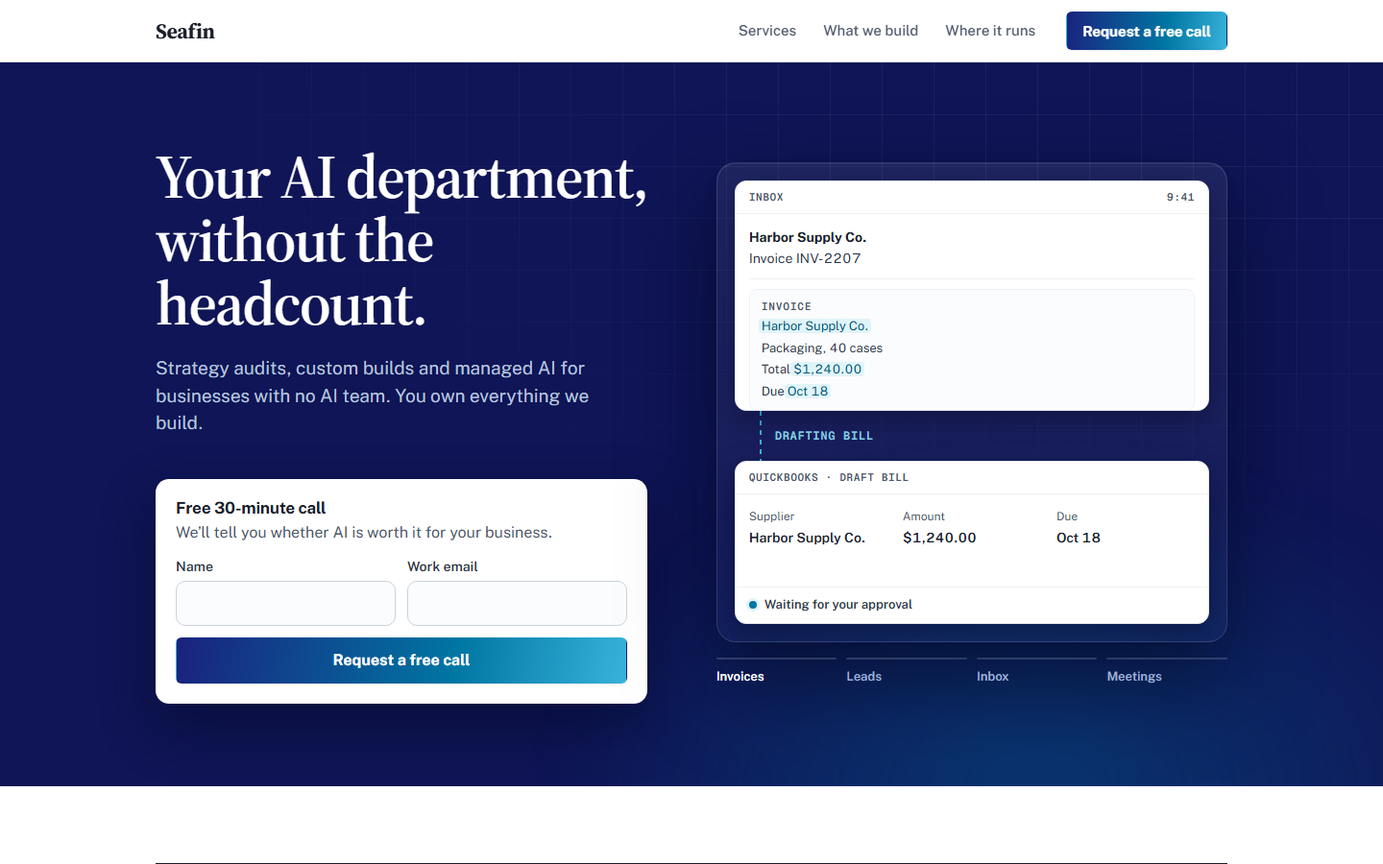
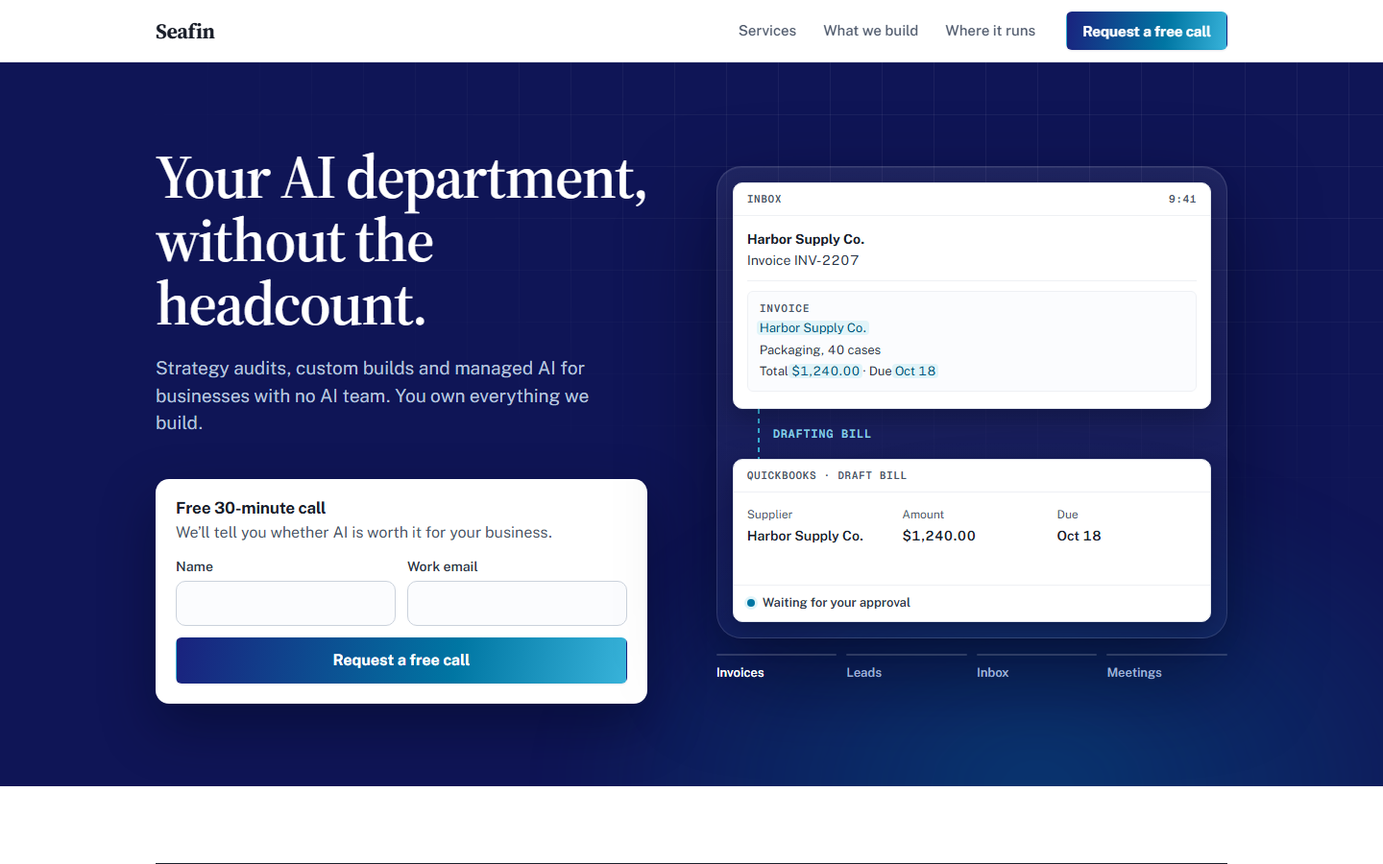
Demo: fit the invoice, radii back in the 6/10/14/26 family; design record

diff --git a/seafin-site/home.css b/seafin-site/home.css
@@ -155,20 +155,20 @@ h1, h2, h3 { margin: 0; color: var(--ink-900); }
 /* ---------- the build, played (demo.js) ---------- */
 .demo { margin: 0; }
 .demo-stage {
-  position: relative; display: grid; grid-template-rows: auto 52px minmax(0, 1fr); height: 500px;
-  padding: 18px; border-radius: 20px;
+  position: relative; display: grid; grid-template-rows: auto 52px minmax(0, 1fr); height: 492px;
+  padding: 16px; border-radius: 26px;
   background: linear-gradient(180deg, rgba(255, 255, 255, 0.07), rgba(255, 255, 255, 0.025));
   border: 1px solid rgba(255, 255, 255, 0.13);
   box-shadow: 0 40px 90px rgba(3, 6, 30, 0.55), inset 0 1px 0 rgba(255, 255, 255, 0.08);
 }
-.app { position: relative; overflow: hidden; background: var(--paper); border: 1px solid var(--line); border-radius: 12px; box-shadow: 0 10px 30px rgba(3, 6, 30, 0.35); color: var(--ink-900); }
+.app { position: relative; overflow: hidden; background: var(--paper); border: 1px solid var(--line); border-radius: var(--r-input); box-shadow: 0 10px 30px rgba(3, 6, 30, 0.35); color: var(--ink-900); }
 .app-dst { display: flex; flex-direction: column; }
 .app-dst .app-status { margin-top: auto; }
 .app-bar { display: flex; justify-content: space-between; gap: 12px; padding: 10px 14px; border-bottom: 1px solid var(--line-soft); font: 600 0.6875rem/1.2 var(--font-mono); letter-spacing: 0.06em; text-transform: uppercase; color: var(--ink-500); }
-.app-body { position: relative; height: 204px; padding: 14px; font-size: 0.875rem; line-height: 1.5; color: var(--ink-700); }
+.app-body { position: relative; height: 200px; padding: 14px; font-size: 0.875rem; line-height: 1.5; color: var(--ink-700); }
 .app-body .mail { display: grid; gap: 1px; padding-bottom: 10px; margin-bottom: 10px; border-bottom: 1px solid var(--line-soft); }
 .app-body .from { font-weight: 700; color: var(--ink-900); }
-.app-body .doc { display: grid; gap: 3px; padding: 10px 12px; border: 1px solid var(--line-soft); border-radius: 8px; background: var(--paper-2); font-size: 0.8125rem; }
+.app-body .doc { display: grid; gap: 3px; padding: 10px 12px; border: 1px solid var(--line-soft); border-radius: var(--r-control); background: var(--paper-2); font-size: 0.8125rem; }
 .app-body .doc-h { font: 600 0.6875rem/1.4 var(--font-mono); letter-spacing: 0.08em; text-transform: uppercase; color: var(--ink-500); }
 .app-body .row { display: grid; grid-template-columns: 5rem 1fr; gap: 10px; padding-block: 5px; border-bottom: 1px solid var(--line-soft); }
 .app-body .row:last-child { border-bottom: 0; }
@@ -296,8 +296,8 @@ h1, h2, h3 { margin: 0; color: var(--ink-900); }
 @media (max-width: 480px) {
   .hero h1 { font-size: 2rem; line-height: 1.1; }
   .book form { grid-template-columns: 1fr; }
-  .demo-stage { height: 512px; padding: 12px; }
-  .app-body { height: 216px; padding: 12px; font-size: 0.8125rem; }
+  .demo-stage { height: 492px; padding: 12px; }
+  .app-body { height: 200px; padding: 12px; font-size: 0.8125rem; }
   .fields { gap: 8px 10px; padding-inline: 12px; }
   .fields dd { font-size: 0.8125rem; }
   .demo-tabs { gap: 8px; }

diff --git a/seafin-site/demo.js b/seafin-site/demo.js
@@ -35,8 +35,8 @@
       src: ['Inbox', '9:41',
         '<div class="mail"><span class="from">Harbor Supply Co.</span><span class="subj">Invoice INV-2207</span></div>' +
         '<div class="doc"><span class="ln doc-h">Invoice</span><span class="ln"><mark>Harbor Supply Co.</mark></span>' +
-        '<span class="ln">Packaging, 40 cases</span><span class="ln">Total <mark>$1,240.00</mark></span>' +
-        '<span class="ln">Due <mark>Oct 18</mark></span></div>'],
+        '<span class="ln">Packaging, 40 cases</span>' +
+        '<span class="ln">Total <mark>$1,240.00</mark> &middot; Due <mark>Oct 18</mark></span></div>'],
       steps: ['Reading invoice', 'Pulling out details', 'Drafting bill'],
       dst: ['QuickBooks · Draft bill', ['Supplier', 'Amount', 'Due']],
       typed: '',

diff --git a/seafin-site/index.html b/seafin-site/index.html
@@ -65,8 +65,7 @@
                 <span class="ln doc-h">Invoice</span>
                 <span class="ln"><mark class="hit">Harbor Supply Co.</mark></span>
                 <span class="ln">Packaging, 40 cases</span>
-                <span class="ln">Total <mark class="hit">$1,240.00</mark></span>
-                <span class="ln">Due <mark class="hit">Oct 18</mark></span>
+                <span class="ln">Total <mark class="hit">$1,240.00</mark> &middot; Due <mark class="hit">Oct 18</mark></span>
               </div>
               <span class="scan"></span>
             </div>

diff --git a/DESIGN.md b/DESIGN.md
@@ -22,9 +22,9 @@ colors:
 typography:
   display:
     fontFamily: "Source Serif 4, Georgia, serif"
-    fontSize: "clamp(2.75rem, 5.2vw, 4.5rem)"
+    fontSize: "clamp(2.625rem, 4.6vw, 4rem)"
     fontWeight: 600
-    lineHeight: 1.02
+    lineHeight: 1.03
     letterSpacing: "-0.025em"
   headline:
     fontFamily: "Source Serif 4, Georgia, serif"
@@ -103,10 +103,21 @@ components:
     backgroundColor: "{colors.indigo-deep}"
     textColor: "#e9ecf6"
     padding: "clamp(48px, 6vw, 96px) 0 clamp(48px, 6vw, 88px)"
-  form-bar:
+  form-panel:
     backgroundColor: "{colors.paper}"
     rounded: "{rounded.panel}"
     padding: "18px 20px 20px"
+  demo-stage:
+    padding: "18px"
+    height: "500px"
+  demo-card:
+    backgroundColor: "{colors.paper}"
+    textColor: "{colors.ink-900}"
+  demo-chip:
+    backgroundColor: "{colors.teal}"
+    textColor: "#ffffff"
+    rounded: "{rounded.control}"
+    padding: "1px 8px"
   index-row:
     typography: "{typography.index}"
     padding: "{spacing.row-pad} 0"
@@ -137,16 +148,16 @@ components:
 
 Seafin does not have its own visual world. By the user's standing pin (PRODUCT.md, Brand Commitments), Seafin's site uses the Wardix design system: `tracelet` repo `design.md` on `origin/dev` ("Vigilant Infrastructure") for doctrine, and `tracelet-vendor/pages/css/tracelet-landing.css` for token values. This file records how that system landed on Seafin, and where Seafin departs from the Wardix marketing site. When this file is silent, the upstream `design.md` governs; when they disagree, this file records what Seafin shipped.
 
-The page should look like it comes from the same company as Wardix: it opens on the Wardix dark hero (Deep Indigo under a fading engineering grid and a soft teal glow, the same treatment `tracelet-landing.css` uses), then runs white with hairline rules, one Canvas band, one bordered panel, serif headings, sans everything else, and one gradient button. Restraint carries the premium feel. It reads as a consulting practice's page, not a person's or a product's: type, rules, one form and two small drawn diagrams do the work. Density is moderate: a compact first viewport and generous spacing below.
+The page should look like it comes from the same company as Wardix: it opens on the Wardix dark hero (Deep Indigo under a fading engineering grid and a soft teal glow, the same treatment `tracelet-landing.css` uses), then runs white with hairline rules, one Canvas band, one bordered panel, serif headings, sans everything else, and one gradient button. Restraint carries the premium feel everywhere except one place: the hero's demo, "the build, played", where the page shows what Seafin does by playing it. It reads as a consulting practice's page, not a person's or a product's. Density is moderate: a compact first viewport and generous spacing below.
 
-Seafin departs from the Wardix marketing site in four places, each on purpose. There are no mono labels above headings, because Impeccable's craft floor bans them. There is no photography or raster imagery: no scenic hero (it would make Seafin read as a copy of the Wardix site), no founder portrait, no product screenshot. Drawn teal line diagrams are the only pictures. The brand gradient is narrowed to the single primary action. And motion is limited to one moving thing.
+Seafin departs from the Wardix marketing site in four places, each on purpose. There are no mono labels above headings, because Impeccable's craft floor bans them. There is no photography or raster imagery: no scenic hero (it would make Seafin read as a copy of the Wardix site), no founder portrait, no product screenshot. The pictures are built from markup: the hero demo's mock app cards and the drawn teal route diagrams. The brand gradient is narrowed to the single primary action. And motion has one focal point, the demo; everything else that moves is quiet.
 
 **Key Characteristics:**
 - A Deep Indigo opening with the upstream engineering grid, then a white page with one Canvas band and a Bastion close; dark mode from the same token pairs.
-- Source Serif 4 for the page's headings and the service names, Public Sans for everything readable, Geist Mono only for short functional tags.
+- Source Serif 4 for the page's headings and the service names, Public Sans for everything readable, Geist Mono only for short functional tags and mock-software chrome.
 - One radius family: 6 / 10 / 14.
 - One action per page, one label for it, one gradient on it.
-- No photography; drawn teal line diagrams only; no invented proof.
+- One focal motion (the hero demo), quiet supporting motion elsewhere; no photography; no invented proof.
 
 ## Colors
 
@@ -157,31 +168,31 @@ Neutral cool surfaces with one control color (indigo), one accent (teal), and tw
 - **Deep Indigo** (`indigo-deep`): the hero field (#070a18 in dark mode, set on the hero itself) and the tint source for every light-mode shadow. Indigo Tint (#e8eaf5) is still declared from the Wardix set but unused here.
 
 ### Secondary
-- **Signal Teal** (`teal`): links, focus outlines, input focus borders, caret, duration tags, flow arrows, diagram icons, the dashed boundary and its label, and the sent-state border on the form bar. In dark mode it becomes Soft Teal (#38b3da) so it stays legible on navy; upstream Wardix does not make this swap.
-- **Deep Teal** (`teal-deep`): link hover. In dark mode it lightens to #8fd6ee, so hover always moves away from the background.
-- **Soft Teal** (`teal-soft`): ends the brand gradient; the diagram wires; focus outline color in the hero and the closing band.
-- **Teal Tint** (`teal-tint`): the 3px focus halo around inputs and the sent-state halo around the form bar. Dark pair #0c2c3a.
+- **Signal Teal** (`teal`): links, focus outlines, input focus borders, caret, duration tags, flow arrows, diagram icons, the dashed boundary and its label, the sent-state border on the form panel, and in the demo the flying chips, the working/done status dot and the typing caret. In dark mode it becomes Soft Teal (#38b3da) so it stays legible on navy; upstream Wardix does not make this swap.
+- **Deep Teal** (`teal-deep`): link hover and the text of a demo mark once the scan has lit it. In dark mode it lightens to #8fd6ee, so hover always moves away from the background.
+- **Soft Teal** (`teal-soft`): ends the brand gradient; every wire (route diagrams, demo relay); the demo scan line and tab progress fill; focus outline color on the dark fields.
+- **Teal Tint** (`teal-tint`): the 3px focus halo around inputs, the sent-state halo around the form panel, and the highlight behind a lit demo mark or a freshly filled demo field. Dark pair #0c2c3a.
 
 ### Tertiary
 - **Bastion Navy** (`bastion`): the closing band only, the same in both modes.
 
 ### Neutral
-- **Ink 900 / 700 / 500** (`ink-900`, `ink-700`, `ink-500`): headings, primary text, flow results and the practice-index top rule / field labels, diagram node labels, the "which one fits" line and the footer maker name / descriptions, flow inputs, nav and footer links. Dark pairs #e9ecf6 / #cdd3e6 / #9aa3c0.
-- **Paper** (`paper`): the page background, the form bar, the routes panel, nav (at 94%). Dark pair #121732.
-- **Paper 2** (`paper-2`): input fills and diagram wells, one step off Paper. Dark pair #0f1430.
+- **Ink 900 / 700 / 500** (`ink-900`, `ink-700`, `ink-500`): headings, primary text, flow results and the practice-index top rule / field labels, diagram node labels, demo card body text, the "which one fits" line and the footer maker name / descriptions, flow inputs, demo field keys and app-bar text, nav and footer links. Dark pairs #e9ecf6 / #cdd3e6 / #9aa3c0.
+- **Paper** (`paper`): the page background, the form panel, the demo's app cards, the routes panel, nav (at 94%). Dark pair #121732.
+- **Paper 2** (`paper-2`): input fills, diagram wells and the document inset in a demo card. Dark pair #0f1430.
 - **Canvas** (`bg`): the "Where it runs" band only. Dark pair #0b0e1a.
-- **Line** (`line`): panel borders, practice-index and flow row rules, section dividers, nav bottom border. Dark #262c44.
-- **Line Soft** (`line-soft`): dividers inside a panel and diagram well borders. Dark #1e2438.
-- **Line Strong** (`line-strong`): input borders. Seafin's addition, not in the upstream token set. Dark #3a4466.
+- **Line** (`line`): panel and card borders, practice-index and flow row rules, section dividers, nav bottom border. Dark #262c44.
+- **Line Soft** (`line-soft`): dividers inside a panel or card, diagram well borders. Dark #1e2438.
+- **Line Strong** (`line-strong`): input borders (hover mixes in 45% Ink 500); the idle demo status dot. Seafin's addition, not in the upstream token set. Dark #3a4466.
 - **Danger** (`danger`): form error text only. Dark #ff8a80. Seafin's name for upstream's critical red.
-- **Hero-local text:** white for the H1 and #b9c4de for the lede, set on the hero so it reads the same in both modes.
+- **Hero-local colors:** white for the H1, #b9c4de for the lede, #9fb0d4 for idle demo tabs (white when active or hovered), #8fd6ee for the demo's step label; the glass stage is white at 7% to 2.5% with a 13% white border. All set on the hero so it reads the same in both modes.
 
 ### Named Rules
-**The One Gradient Rule.** The indigo-to-teal brand gradient appears only on "Request a free call" buttons (nav, form submit, closing band) and on the favicon tile. Not on text, cards, section backgrounds, or a second button. The hero's grid lines and teal glow are the upstream hero treatment, not the brand gradient, and appear nowhere else.
+**The One Gradient Rule.** The indigo-to-teal brand gradient appears only on "Request a free call" buttons (nav, form submit, closing band) and on the favicon tile. Not on text, cards, section backgrounds, or a second button. The hero's grid, teal glow, the demo's glass sheen and its scan line are translucent tints confined to the hero, not the brand gradient.
 
 **The Two Dark Fields Rule.** Deep Indigo opens the page (the hero); Bastion Navy closes it (the closing band). Neither appears anywhere else, and they never swap.
 
-**The Status-Means-State Rule.** Green, gold and red mean real system state. Seafin uses only red, and only for a failed form send.
+**The Status-Means-State Rule.** Green, gold and red mean real system state. Seafin uses only red, and only for a failed form send. The demo's status dot is teal, never green.
 
 ## Typography
 
@@ -194,26 +205,27 @@ All three are self-hosted WOFF2 files in `seafin-site/fonts`, using `font-displa
 **Character:** an editorial serif for the page's statements and the names of what Seafin sells, over a plain, sturdy civic sans that does all the reading. Tabular numerals are on across the whole body.
 
 ### Hierarchy
-- **Display** (600, clamp(2.75rem, 5.2vw, 4.5rem), 1.02, -0.025em, white): the hero H1 only. Balanced wrap. Drops to 2rem / 1.1 at ≤480px.
+- **Display** (600, clamp(2.625rem, 4.6vw, 4rem), 1.03, -0.025em, white): the hero H1 only. Balanced wrap. Drops to 2rem / 1.1 at ≤480px.
 - **Headline** (600, clamp(1.875rem, 3vw, 2.5rem), 1.12, -0.015em): section H2s and the closing-band H2.
 - **Index** (600, clamp(1.625rem, 2.4vw, 2.125rem), 1.15, -0.015em): service names in the practice index.
-- **Title** (Public Sans 700, 1.1875rem, 1.3): route H3s in the routes panel. The form-bar heading is a smaller sans title (700, 1.0625rem, 1.3, -0.01em).
-- **Lede** (400, 1.1875rem, 1.5, #b9c4de, max 40ch): the hero sentence.
+- **Title** (Public Sans 700, 1.1875rem, 1.3): route H3s in the routes panel. The form-panel heading is a smaller sans title (700, 1.0625rem, 1.3, -0.01em).
+- **Lede** (400, 1.1875rem, 1.5, #b9c4de, max 40ch): the hero sentence, 20px under the H1.
 - **Body Large** (400, 1.125rem): flow rows; the result side is ink-900 at 600, the input side ink-500.
 - **Body** (400, 1.0625rem, 1.6): running text. Descriptions cap at 52 to 60ch.
-- **Label** (Geist Mono 600, 0.75rem, 0.06em, uppercase, teal): duration tags in the practice index. The diagram boundary label is the same face at 0.6875rem.
+- **Label** (Geist Mono 600, 0.75rem, 0.06em, uppercase, teal): duration tags in the practice index; the demo's step label. The diagram boundary label and the demo's app-bar and document headers use the same face at 0.6875rem.
 - **Field label** (Public Sans 600, 0.875rem, 1.3, ink-700): form labels and diagram node labels.
+- **Demo scale:** inside the demo cards text runs smaller to read as software: 0.875rem body, 0.8125rem documents, chips and tabs, 0.75rem field keys (all one step smaller at ≤480px).
 
 ### Named Rules
-**The Serif-Is-For-The-Page Rule.** Serif is for page-level headings (the H1, section H2s, the closing H2) and for the service names in the practice index, which act as the headings of what Seafin sells. Panel titles, including the form-bar heading and the route H3s, are Public Sans bold.
+**The Serif-Is-For-The-Page Rule.** Serif is for page-level headings (the H1, section H2s, the closing H2) and for the service names in the practice index, which act as the headings of what Seafin sells. Panel titles, including the form-panel heading and the route H3s, are Public Sans bold. Nothing inside the demo is serif.
 
-**The Mono-Tags-Never-Lead Rule.** Geist Mono uppercase labels are short and functional: duration tags set beside their title (desktop) or beneath it (≤960px), and the one label that names a drawn boundary in a diagram. A mono label never sits above a heading and never leads a row.
+**The Mono-Tags-Never-Lead Rule.** On the page, Geist Mono uppercase labels are short and functional: duration tags set beside their title (desktop) or beneath it (≤960px), the step label on the demo's wire, and the one label that names a drawn boundary in a diagram. A mono label never sits above a page heading and never leads a page row. Inside the demo's mock app cards, mono is the mock software's own chrome (app name, time, document header, speaker name) and depicts an interface; it is not a page device to reuse elsewhere.
 
 ## Layout
 
 Single column centered at 1180px max width with a gutter of clamp(16px, 4vw, 32px). Sections pad clamp(56px, 7vw, 96px) top and bottom and are separated by a 1px Line rule.
 
-The first viewport is the dark hero (clamp(48px, 6vw, 96px) top, clamp(48px, 6vw, 88px) bottom): the serif H1 with the lede beside it, 1.75fr / 1fr, aligned to the bottom, and under them, clamp(28px, 3.5vw, 44px) down, the Paper form bar. The practice index follows on white after clamp(48px, 6vw, 80px), opened by its 1px ink-900 rule (its section heading is visually hidden). The practice index pattern was borrowed from Accenture's and Capgemini's practice pages (chosen 2026-10-04).
+The first viewport is the dark hero (clamp(48px, 6vw, 96px) top, clamp(48px, 6vw, 88px) bottom), two columns at 1fr / 1.04fr, vertically centered, 40px by clamp(32px, 5vw, 72px) apart. Left: the serif H1, the lede, and clamp(28px, 3.5vw, 44px) below them the form panel. Right: the demo. The practice index follows on white after clamp(48px, 6vw, 80px), opened by its 1px ink-900 rule (its section heading is visually hidden). The practice index pattern was borrowed from Accenture's and Capgemini's practice pages (chosen 2026-10-04).
 
 The sections change shape instead of repeating one template:
 1. The practice index: open ruled rows, three columns (16rem / 13.5rem / 1fr) of name, duration tag and description (Services).
@@ -222,36 +234,39 @@ The sections change shape instead of repeating one template:
 4. A full-bleed Bastion band with the heading and actions on one line (closing).
 5. A one-line footer: maker name left, mail and legal links right.
 
-Breakpoints: at ≤960px the hero grid collapses to one column and index rows stack (name, tag, description). At ≤760px nav links hide, the form fields and submit stack, flow rows stack with the arrow turned to point down, and the routes panel stacks. At ≤480px the hero type steps down and closing-band buttons go full width.
+Breakpoints: at ≤960px the hero collapses to one column with the demo below the form (capped at 560px wide), and index rows stack (name, tag, description). At ≤760px nav links hide, the two form fields stack, flow rows stack with the arrow turned to point down, and the routes panel stacks. At ≤480px the hero type steps down, the demo's padding and type tighten, and closing-band buttons go full width.
 
 ## Elevation & Depth
 
-A hybrid that leans flat: hairline borders, rules and two dark fields do the separating. On light ground, one quiet indigo-tinted shadow gives the routes panel and buttons a little lift. On the dark hero, the Paper form bar floats on one deep shadow, which is what makes it read as the action. In dark mode, Raised and Overlay become neutral black and stronger, while Resting keeps its light indigo tint.
+A hybrid that leans flat: hairline borders, rules and two dark fields do the separating. On light ground, one quiet indigo-tinted shadow gives the routes panel and buttons a little lift. On the dark hero, depth is deliberate and deep: the form panel and the demo float on dark navy shadows, and the demo's cards sit inside a glass stage. In dark mode, Raised and Overlay become neutral black and stronger, while Resting keeps its light indigo tint.
 
 ### Shadow Vocabulary
 - **Resting** (`box-shadow: 0 1px 2px rgba(15, 21, 86, 0.06), 0 1px 3px rgba(15, 21, 86, 0.04)`): the routes panel and primary buttons at rest.
-- **Raised** (`box-shadow: 0 4px 12px rgba(15, 21, 86, 0.08), 0 2px 4px rgba(15, 21, 86, 0.04)`): button hover and the form bar's sent state only. Dark: `0 4px 14px rgba(0, 0, 0, 0.4)`.
-- **Hero Lift** (`box-shadow: 0 24px 56px rgba(3, 6, 30, 0.45)`): the form bar on the dark hero, and nothing else.
+- **Raised** (`box-shadow: 0 4px 12px rgba(15, 21, 86, 0.08), 0 2px 4px rgba(15, 21, 86, 0.04)`): button hover and the form panel's sent state only. Dark: `0 4px 14px rgba(0, 0, 0, 0.4)`.
+- **Hero Lift** (`box-shadow: 0 24px 56px rgba(3, 6, 30, 0.45)`): the form panel on the dark hero.
+- **Stage** (`box-shadow: 0 40px 90px rgba(3, 6, 30, 0.55), inset 0 1px 0 rgba(255, 255, 255, 0.08)`): the demo's glass stage.
+- **Card on Stage** (`box-shadow: 0 10px 30px rgba(3, 6, 30, 0.35)`): the demo's app cards.
+- **Chip Glow** (`box-shadow: 0 8px 20px rgba(0, 118, 163, 0.4)`): a demo chip in flight.
 - **Overlay** (`box-shadow: 0 14px 32px rgba(15, 21, 86, 0.1), 0 4px 12px rgba(15, 21, 86, 0.05)`): defined but unused on this page. Kept for menus and dialogs.
 
 ### Named Rules
-**The Quiet Elevation Rule.** On light ground nothing at rest sits above Resting; Raised appears only in response to state (hover, a sent form) and Overlay is for overlays. The one exception is the form bar's Hero Lift, which exists only because it sits on the dark hero.
+**The Quiet Elevation Rule.** On light ground nothing at rest sits above Resting; Raised appears only in response to state (hover, a sent form) and Overlay is for overlays. Deep shadows (Hero Lift, Stage, Card on Stage, Chip Glow) exist only on the dark hero, where a light shadow would vanish.
 
 ## Shapes
 
-One radius family from upstream, narrowed to what the page uses: 6px for buttons, 10px for inputs and diagram wells, 14px for the form bar and the routes panel. Upstream's 26px media radius has no use here because there is no imagery. The practice index and flow rows have no corners at all: they are rules, not containers. No pills, no icon tiles. Borders and rules are 1px; lines inside a panel use Line Soft, outer lines use Line. Two marked exceptions: the ink-900 rule that opens the practice index, and the 1.5px dashed teal boundary around the self-hosted diagram. Icons and arrows are open line strokes (1.5 to 1.75, round caps and joins) in teal, never filled.
+One radius family from upstream, narrowed to what the page uses: 6px for buttons and demo chips, 10px for inputs and diagram wells, 14px for the form panel and the routes panel. The practice index and flow rows have no corners at all: they are rules, not containers. No pills, no icon tiles; the only round shape is the 8px demo status dot. Borders and rules are 1px; lines inside a panel use Line Soft, outer lines use Line. Two marked exceptions: the ink-900 rule that opens the practice index, and the 1.5px dashed teal boundary around the self-hosted diagram. Icons and arrows are open line strokes (1.5 to 1.75, round caps and joins) in teal, never filled. The demo stage (20px), its app cards (12px) and the document inset (8px) currently sit outside the family; they are recorded here as shipped, not as steps to reuse.
 
 ## Components
 
 ### Buttons
-- **Shape:** gently rounded (6px), min height 44px (40px with 16px padding in the nav, 46px at 1rem in the form bar), padding 0 20px, Public Sans 700 at 0.9375rem.
+- **Shape:** gently rounded (6px), min height 44px (40px with 16px padding in the nav, 48px full-width at 1rem in the form panel), padding 0 20px, Public Sans 700 at 0.9375rem.
 - **Primary:** brand gradient (`linear-gradient(100deg, indigo 0%, teal 62%, teal-soft 100%)`; dark: #2b35a8 / #0a85b6 / #38b3da; the frontmatter records indigo as its solid fallback), white text, Resting shadow. One label everywhere: "Request a free call".
 - **Hover / Focus:** hover brightens (`filter: brightness(1.08)`) and lifts to Raised; press shifts down 1px and dims slightly (0.96). Transitions are 160ms ease-out. Focus is the global 2px teal outline, offset 3px (Soft Teal on the dark fields). While sending, the button is desaturated and the label reads "Sending…".
 - **Secondary:** none.
 
 ### Inputs / Fields
 - **Style:** Paper 2 fill, 1px Line Strong border, 10px radius, padding 11px 13px, min height 46px. Labels sit above the field, 6px apart.
-- **Focus:** the border turns teal and a 3px Teal Tint halo appears; no outline. 140ms ease-out.
+- **Hover / Focus:** hover darkens the border (Line Strong mixed 55/45 with Ink 500). Focus turns the border teal with a 3px Teal Tint halo; no outline. 140ms ease-out.
 - **Error:** one line of Danger-colored status text across the full width of the form, with a mailto fallback.
 
 ### Cards / Containers
@@ -265,20 +280,30 @@ One radius family from upstream, narrowed to what the page uses: 6px for buttons
 - Sticky, 64px tall, Paper at 94% with a 10px backdrop blur and a bottom Line border, sitting over the dark hero. Serif wordmark "Seafin" (700, 1.375rem, -0.02em). Three links (Services, What we build, Where it runs) in Public Sans 500 0.9375rem ink-500, turning ink-900 on hover. The primary button sits at the right.
 - On this one-page build, links hide at ≤760px with no menu replacement. The primary button stays in the header.
 
-### Hero (signature)
+### Hero
 The Wardix opening, adopted from upstream: a Deep Indigo field (#070a18 in dark mode) under an engineering grid of 1px white lines at 5.5% opacity on a 54px square, faded out by a radial mask from the top right, with a blurred teal glow (Signal Teal at 35%) rising from the bottom right. The grid and glow sit behind the content and carry no meaning; they appear only here.
 
-### Form Bar (signature)
-The one action, in the first viewport under the headline, as a single Paper bar the full width of the column: Paper fill, transparent border, 14px radius, padded 18px 20px 20px, Hero Lift shadow. The sans heading and its one-line ink-500 sub-line (1rem) share a baseline row. Below, 14px down, name, work email and the primary button sit in one row (1fr / 1fr / auto, 12px gap, aligned to the field bottoms), stacking at ≤760px; an `aria-live` status line spans the row beneath. On a successful send, the fields disable, the button hides, the border warms to teal with a 3px Teal Tint halo plus Raised (400ms ease-out), and the confirmation fades up 4px (420ms, cubic-bezier(0.16, 1, 0.3, 1)). Every "Request a free call" link scrolls to the bar and focuses the first field.
+### Form Panel
+The one action, in the hero's left column under the lede: Paper fill, transparent border, 14px radius, padded 18px 20px 20px, Hero Lift shadow. The sans heading and its one-line ink-500 sub-line (1rem) share a baseline row and wrap when narrow. Below, 14px down, name and work email sit side by side (12px gap, stacking at ≤760px) over a full-width 48px primary button; an `aria-live` status line spans beneath. On a successful send, the fields disable, the button hides, the border warms to teal with a 3px Teal Tint halo plus Raised (400ms ease-out), and the confirmation fades up 4px (420ms, cubic-bezier(0.16, 1, 0.3, 1)). Every "Request a free call" link scrolls to the panel and focuses the first field.
+
+### The Build, Played (signature)
+The hero's right column: a looping demo of four example builds (invoices, leads, inbox, meetings), each showing a message turning into finished work in a real tool.
+- **Stage:** a glass panel 500px tall (512px at ≤480px), 18px padding, a top-to-bottom white sheen (7% to 2.5%), a 13% white border and the Stage shadow. Three rows: the source card, a 52px relay, the destination card.
+- **App cards:** Paper, 1px Line border, Card on Stage shadow. A Line Soft app bar carries the mock app's name and meta in 0.6875rem mono ink-500. The source body is a fixed 204px; the destination holds a three-column field list (key in 0.75rem ink-500, value in 600 ink-900, empty values drawn as shimmering Line bars), an optional typed reply, and a status row with an 8px dot pinned to the bottom.
+- **Relay:** a vertical 2px dashed Soft Teal wire drifting downward (900ms linear) beside a mono step label in #8fd6ee that changes per step with a 280ms fade-up.
+- **Tabs:** four progress tabs under the stage, each a 2px track (white 16%) that fills with Soft Teal across its scene's duration. Clicking a tab jumps to that scene. Hidden without JS.
+- **Rhythm (one for every scene):** cards enter rising 14px (520ms, cubic-bezier(0.16, 1, 0.3, 1), destination 140ms later); a Soft Teal scan line sweeps the source (1100ms) and lights each mark Teal Tint / Deep Teal as it passes; Signal Teal chips fly from each mark to its destination field (820ms, staggered 150ms) and the field flashes Teal Tint as it fills (700ms); an optional reply types at 22ms per character behind a teal caret; the status dot stops breathing and settles to teal with a halo; hold 2.2s; cards leave rising 10px (320ms ease-in).
+- **Restraint:** the loop pauses when less than 20% of the stage is on screen and when the browser tab is hidden. Under reduced motion, and without JS, the markup shows one composed still frame (the finished invoice scene); with reduced motion, tabs swap still frames.
+- **Sample data:** names, companies and amounts are illustrative examples (approved by the user), labelled "Example build" to assistive tech, and never presented as clients or results.
 
 ### Practice Index (signature)
 The three services as an open, ruled index: a 1px ink-900 rule on top, a 1px Line rule under each row, no panel, fill or shadow. Each row (24px top and bottom) sets the serif service name, the teal mono duration tag and the ink-500 description on one baseline across 16rem / 13.5rem / 1fr columns, 32px apart. At ≤960px each row stacks with the tag directly beneath the name.
 
 ### Flow Rows
-Full-width rows of input, arrow, result (1fr / 22px / 1.25fr), 22px top and bottom, ruled with Line above each row and below the last. The input is ink-500, the result ink-900 at 600, the arrow a drawn 22px teal line stroke. No tag or label leads a row; the tool is named inside the result sentence. At ≤760px the row stacks and the arrow points down.
+Full-width rows of input, arrow, result (1fr / 22px / 1.25fr), 22px top and bottom, ruled with Line above each row and below the last. The input is ink-500, the result ink-900 at 600, the arrow a 22px teal line stroke. No tag or label leads a row; the tool is named inside the result sentence. At ≤760px the row stacks and the arrow points down.
 
 ### Route Diagram
-Inside each half of the routes panel, above the route title: a Paper 2 well (10px radius, Line Soft border, padded 26px 20px 20px) holding two nodes joined by a wire. Nodes are drawn 36px teal line icons over a field-label caption, with no tile or fill behind them. The wire is a 2px dashed Soft Teal line that drifts continuously (900ms linear); it is the only moving thing on the page and stops under prefers-reduced-motion. The self-hosted route's well swaps its border for a 1.5px dashed teal boundary, named by a 0.6875rem mono label set into the top edge.
+Inside each half of the routes panel, above the route title: a Paper 2 well (10px radius, Line Soft border, padded 26px 20px 20px) holding two nodes joined by a wire. Nodes are 36px teal line icons over a field-label caption, with no tile or fill behind them. The wire is a 2px dashed Soft Teal line that drifts continuously (900ms linear), quiet supporting motion. The self-hosted route's well swaps its border for a 1.5px dashed teal boundary, named by a 0.6875rem mono label set into the top edge.
 
 ### Closing Band
 Full-bleed Bastion Navy, padded clamp(56px, 7vw, 96px), with a white serif headline beside the primary button and a mail link in pale cyan (#9fd8ec, white on hover). Text and focus colors are set locally, so the band looks the same in both modes.
@@ -287,7 +312,7 @@ Full-bleed Bastion Navy, padded clamp(56px, 7vw, 96px), with a white serif headl
 One line under the band: "Seafin LLC" in ink-700 600 on the left, then the mail, Privacy and Terms links in ink-500 at 0.875rem, unadorned until hover (ink-900, underline).
 
 ### Motion
-Hover and focus transitions (140 to 160ms ease-out), the form's sent state, and the diagram wires. Nothing else moves. All motion turns off under prefers-reduced-motion.
+One focal motion and quiet support. The hero demo is the page's focal motion, with the shared rhythm above. Supporting motion is limited to the drifting dashed wires (route diagrams and demo relay, 900ms linear), the form's sent state, and hover and focus transitions (140 to 160ms ease-out). Entrances ease out on cubic-bezier(0.16, 1, 0.3, 1); exits ease in and run faster than entrances. All motion turns off under prefers-reduced-motion, leaving composed still frames.
 
 ## Do's and Don'ts
 
@@ -296,16 +321,17 @@ Hover and focus transitions (140 to 160ms ease-out), the form's sent state, and 
 - **Do** reserve the brand gradient for "Request a free call" buttons, and use that same label everywhere the action appears.
 - **Do** open on the upstream dark hero (Deep Indigo, 54px grid, radial mask, teal glow) and close on Bastion Navy; keep everything between them light.
 - **Do** use Source Serif 4 for page-level headings and practice-index service names only, and Public Sans 700 for panel titles.
-- **Do** use Geist Mono uppercase only for short functional tags beside or beneath their title, or to name a drawn boundary.
+- **Do** use Geist Mono uppercase only for short functional tags beside or beneath their title, step labels on a wire, a drawn boundary's name, or the chrome of a mock app.
+- **Do** give every looping animation a shared rhythm, pause it off-screen and in hidden tabs, and make its markup a composed still frame for reduced motion and no-JS.
 - **Do** list services and examples as open ruled rows, and put a two-option comparison in one 14px panel, rather than a grid of cards.
 - **Do** keep every color a light/dark token pair; check link and hover colors in both modes.
 
 ### Don't:
-- **Don't** place an uppercase mono label, kicker or eyebrow above a heading or at the head of a row (the Wardix marketing site's `.eyebrow` pattern is not carried over).
+- **Don't** place an uppercase mono label, kicker or eyebrow above a page heading or at the head of a page row (the Wardix marketing site's `.eyebrow` pattern is not carried over).
 - **Don't** add photography or raster imagery to the consulting page: no scenic photos, no founder portrait, no product screenshots.
 - **Don't** put icons in tiles, circles or filled badges, or use emoji icons.
-- **Don't** add a second moving thing; the diagram wire is the page's only motion beyond state changes.
-- **Don't** use Raised, Overlay or Hero Lift on anything at rest on light ground.
+- **Don't** add a second focal motion; anything else that moves stays as quiet as the dashed wires.
+- **Don't** use deep shadows (Hero Lift, Stage, Card on Stage, Chip Glow) off the dark hero, or Raised and Overlay on anything at rest.
 - **Don't** add prose explaining the page to the visitor, section intros, decorative bold, or decorative numbers.
-- **Don't** show invented proof: no hypothetical case studies, logos, testimonials or counts.
+- **Don't** show invented proof: no hypothetical case studies, logos, testimonials or counts. Demo sample data stays illustrative and is never framed as a client or a result.
 - **Don't** use pills, mixed radii, or sharp cards; one radius family per surface.
